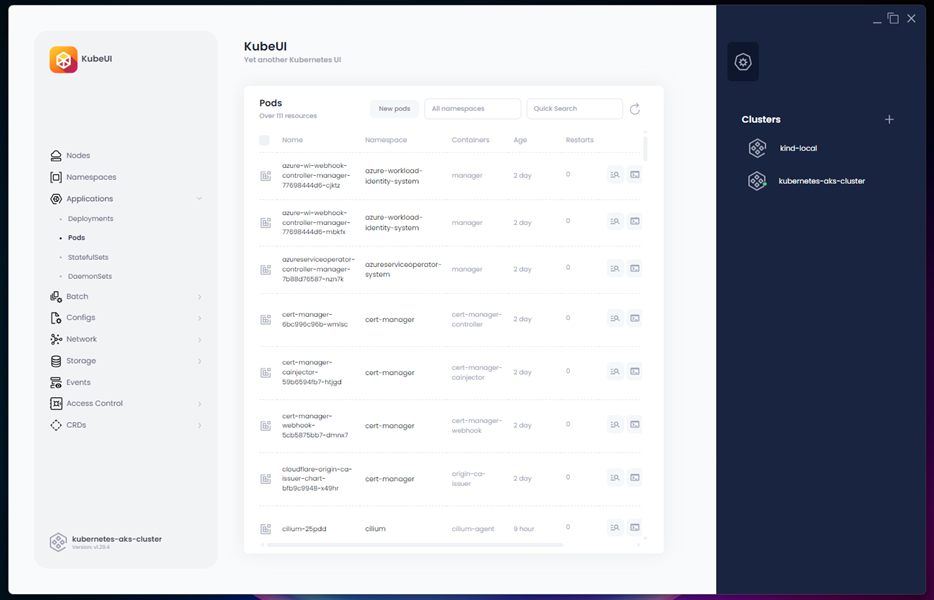
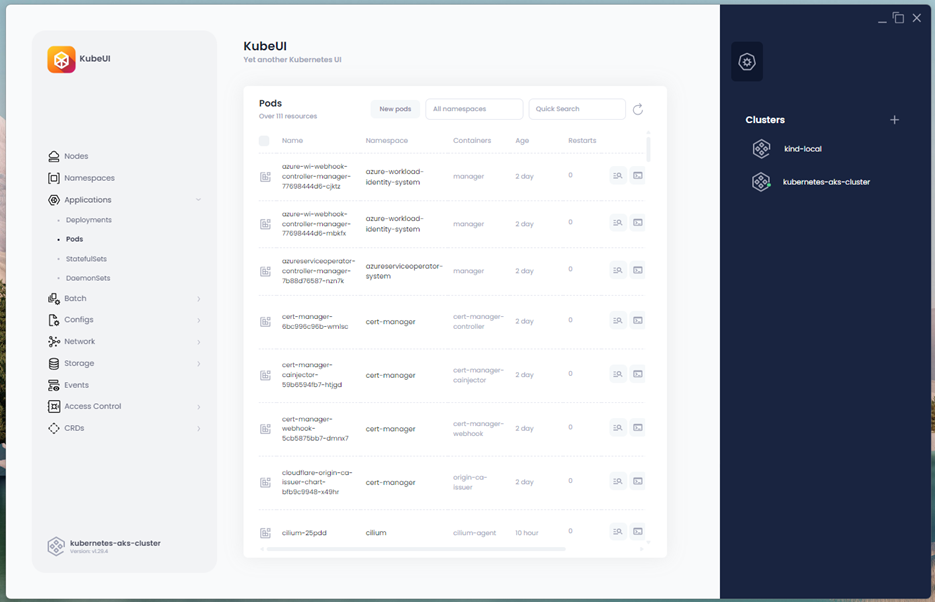
feat: website init;

diff --git a/index.html b/index.html
@@ -23,7 +23,7 @@
               <!-- video -->
                 <div
                   class="w-full bg-no-repeat aspect-video bg-cover rounded-xl @[480px]:h-auto @[480px]:min-w-[400px] @[864px]:w-full"
-                  style='background-image: url("assets/big.png"); height: 600px !important;'
+                  style='background-image: url("assets/big.png"); height: 602px !important; width: 935px !important;'
                 ></div>
                 <div class="flex flex-col gap-6 @[480px]:min-w-[400px] @[480px]:gap-8 @[864px]:justify-center">
                   <div class="flex flex-col gap-2 text-left">
